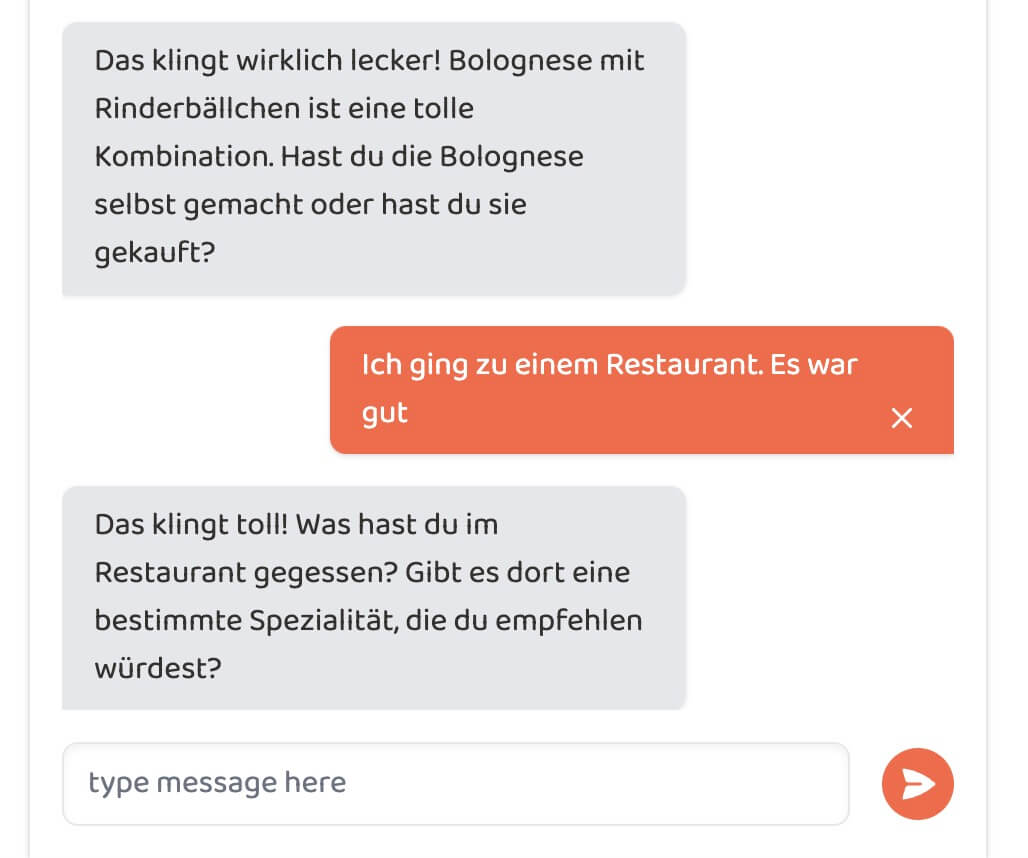
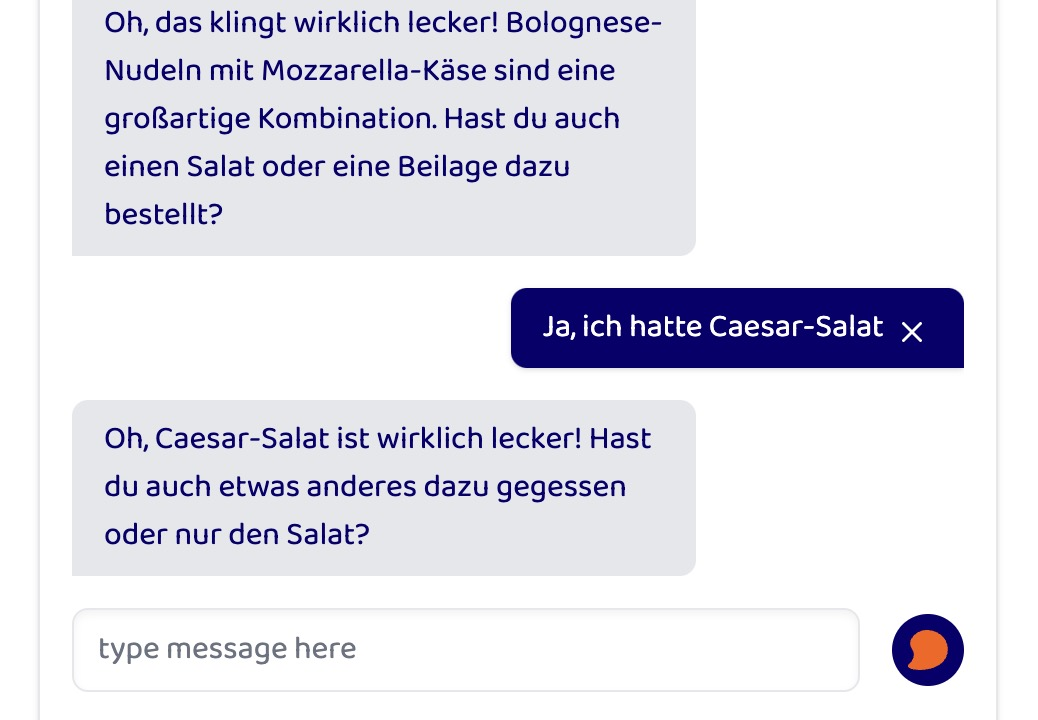
ui changes

Changed region(s): [[0.0623, 0.0, 0.9339, 0.825], [0.0623, 0.8861, 0.3424, 0.9472], [0.8405, 0.8556, 0.9339, 0.9778]]

diff --git a/src/components/home-features-section.tsx b/src/components/home-features-section.tsx
@@ -2,9 +2,9 @@ import Image from "next/image";
 
 export default function HomeFeaturesSection() {
     return (
-        <section className="flex flex-col gap-12 items-center pt-12 w-full min-h-screen bg-gradient-to-t to-white snap-start from-blaze-orange-200">
+        <section className="flex flex-col gap-12 items-center pt-12 w-full min-h-screen snap-start">
             <p className="text-5xl font-bold text-center">Features</p>
-            <div className="flex justify-between items-start w-1/2">
+            <div className="flex gap-4 items-start w-1/2">
                 <div className="w-1/3">
                     <p className="text-2xl font-bold">AI Chat Partner</p>
                     <p className="text-lg">
@@ -16,17 +16,17 @@ export default function HomeFeaturesSection() {
                 <Image
                     src="/chatpartner.jpg"
                     alt="ai chat partner"
-                    width={300}
-                    height={300}
+                    width={450}
+                    height={450}
                     className="rounded-lg shadow"
                 />
             </div>
-            <div className="flex justify-between items-start w-1/2">
+            <div className="flex gap-4 items-start w-1/2">
                 <Image
                     src="/feedback.jpg"
                     alt="ai chat partner"
-                    width={300}
-                    height={300}
+                    width={450}
+                    height={450}
                     className="rounded-lg shadow"
                 />
                 <div className="w-1/3">
@@ -38,7 +38,7 @@ export default function HomeFeaturesSection() {
                     </p>
                 </div>
             </div>
-            <div className="flex justify-between items-start w-1/2">
+            <div className="flex gap-4 items-start w-1/2">
                 <div className="w-1/3">
                     <p className="text-2xl font-bold">Track Your Learning</p>
                     <p className="text-lg">
@@ -51,8 +51,8 @@ export default function HomeFeaturesSection() {
                 <Image
                     src="/studyplan.jpg"
                     alt="ai chat partner"
-                    width={300}
-                    height={300}
+                    width={450}
+                    height={450}
                     className="rounded-lg shadow"
                 />
             </div>

diff --git a/src/components/home-pricing-section.tsx b/src/components/home-pricing-section.tsx
@@ -1,7 +1,42 @@
 export default function HomePricingSection() {
     return (
-        <section className="flex flex-col gap-12 items-center pt-12 w-full min-h-screen bg-gradient-to-b to-white snap-start from-blaze-orange-200">
+        <section className="flex flex-col gap-12 items-center pt-12 w-full min-h-screen snap-start">
             <p className="text-5xl font-bold text-center">Pricing</p>
+            <div className="flex gap-24 items-center w-2/3">
+                <div className="overflow-hidden w-full rounded-2xl shadow bg-rosetta-orange">
+                    <div className="flex flex-col items-center p-8">
+                        <p className="text-5xl font-bold text-white">
+                            Free Plan
+                        </p>
+                        <p className="text-7xl font-extrabold">$0</p>
+                        <p className="text-3xl font-bold">Monthly</p>
+                    </div>
+                    <div className="p-8 bg-white">
+                        <p className="text-3xl">10 Messages Daily</p>
+                        <p className="text-3xl">Basic Topics</p>
+                        <p className="text-3xl">Basic Study Plan</p>
+                    </div>
+                </div>
+
+                <div className="overflow-hidden w-full rounded-2xl shadow bg-rosetta-navy">
+                    <div className="flex flex-col items-center p-8">
+                        <p className="text-5xl font-bold text-white">
+                            Paid Plan
+                        </p>
+                        <p className="text-7xl font-extrabold text-rosetta-orange">
+                            $30
+                        </p>
+                        <p className="text-3xl font-bold text-rosetta-orange">
+                            Monthly
+                        </p>
+                    </div>
+                    <div className="p-8 bg-white">
+                        <p className="text-3xl">Unlimited Messages Daily</p>
+                        <p className="text-3xl">Customised Topics</p>
+                        <p className="text-3xl">Advanced Study Plan</p>
+                    </div>
+                </div>
+            </div>
         </section>
     );
 }

diff --git a/src/components/home-hero-section.tsx b/src/components/home-hero-section.tsx
@@ -1,11 +1,18 @@
+import Image from "next/image";
 import Link from "next/link";
 
 export default function HomeHeroSection() {
     return (
-        <section className="flex flex-col gap-12 items-center pt-40 w-full h-screen bg-gradient-to-b to-white snap-start from-blaze-orange-200">
+        <section className="flex flex-col gap-12 items-center pt-36 w-full h-screen snap-start">
+            <Image
+                src="/rosettamascot.png"
+                alt="rosettamascot"
+                width={200}
+                height={200}
+            />
             <p className="text-5xl font-bold text-center">
                 Learning languages one{" "}
-                <span className="font-extrabold text-transparent bg-clip-text bg-gradient-to-tr from-rosetta-coral to-rosetta-orange">
+                <span className="font-extrabold text-rosetta-orange">
                     conversation
                 </span>{" "}
                 at a time.
@@ -13,13 +20,13 @@ export default function HomeHeroSection() {
             <div className="grid grid-cols-2 gap-12 justify-center">
                 <Link
                     href="/signin"
-                    className="py-4 px-8 text-xl font-bold text-center rounded-lg duration-150 ease-in-out hover:text-white text-rosetta-jet bg-rosetta-coral shadow-inset hover:shadow-inset2 hover:bg-rosetta-orange"
+                    className="py-4 px-8 text-xl font-bold text-center text-white rounded-lg duration-150 ease-in-out bg-rosetta-navy shadow-inset hover:shadow-inset2 hover:bg-rosetta-orange"
                 >
                     Sign In
                 </Link>
                 <Link
                     href="/signup"
-                    className="py-4 px-8 text-xl font-bold text-center rounded-lg duration-150 ease-in-out hover:text-white text-rosetta-jet bg-rosetta-coral shadow-inset hover:shadow-inset2 hover:bg-rosetta-orange"
+                    className="py-4 px-8 text-xl font-bold text-center text-white rounded-lg duration-150 ease-in-out bg-rosetta-navy shadow-inset hover:shadow-inset2 hover:bg-rosetta-orange"
                 >
                     Sign Up
                 </Link>

diff --git a/src/components/lobby-user-profile-section.tsx b/src/components/lobby-user-profile-section.tsx
@@ -26,31 +26,30 @@ export default function LobbyUserProfileSection() {
 
     return (
         <div className="flex flex-col gap-8 w-full h-full">
-            <div className="bg-gray-500 rounded-full w-[150px] h-[150px]"></div>
             <div className="flex flex-col gap-2">
                 <div>
-                    <p className="font-medium">Name</p>
+                    <p className="font-bold">Name</p>
                     <p>{user?.displayName}</p>
                 </div>
                 <div>
-                    <p className="font-medium">Email</p>
+                    <p className="font-bold">Email</p>
                     <p>{user?.email}</p>
                 </div>
                 <div>
-                    <p className="font-medium">Native Language</p>
+                    <p className="font-bold">Native Language</p>
                     <p className="capitalize">{userDetails?.nativeLanguage}</p>
                 </div>
             </div>
             <div className="flex flex-col gap-2">
                 <Link
                     href="/changepassword"
-                    className="py-2 px-4 w-max font-medium bg-gray-200 rounded-lg duration-150 ease-in-out hover:text-white shadow-inset hover:bg-rosetta-orange hover:shadow-inset2"
+                    className="py-2 px-4 w-max font-bold bg-gray-200 rounded-lg duration-150 ease-in-out hover:text-white shadow-inset hover:bg-rosetta-orange hover:shadow-inset2"
                 >
                     Change Password
                 </Link>
                 <Link
                     href="/onboarding?editProfile=1"
-                    className="py-2 px-4 w-max font-medium bg-gray-200 rounded-lg duration-150 ease-in-out hover:text-white shadow-inset hover:bg-rosetta-orange hover:shadow-inset2"
+                    className="py-2 px-4 w-max font-bold bg-gray-200 rounded-lg duration-150 ease-in-out hover:text-white shadow-inset hover:bg-rosetta-orange hover:shadow-inset2"
                 >
                     Edit Profile
                 </Link>

diff --git a/src/components/chat-left-side-bar.tsx b/src/components/chat-left-side-bar.tsx
@@ -42,7 +42,7 @@ export default function ChatLeftSideBar() {
     return (
         <div className="flex flex-col gap-8 items-center pt-12 w-1/3 h-full">
             <div className="flex flex-col gap-4 w-3/4">
-                <h1 className="py-2 px-4 text-xl font-bold rounded-lg bg-rosetta-coral">
+                <h1 className="py-2 px-4 text-xl font-bold text-white rounded-lg bg-rosetta-orange">
                     Current Chat
                 </h1>
                 <div className="flex justify-between items-center w-full">
@@ -63,12 +63,10 @@ export default function ChatLeftSideBar() {
             </div>
 
             <div className="flex flex-col gap-2 w-3/4">
-                <h1 className="py-2 px-4 text-xl font-bold bg-gray-200 rounded-lg">
-                    All Chats
-                </h1>
+                <h1 className="py-2 px-4 text-xl font-bold">All Chats</h1>
                 {displayedChats.map((chat, idx) => (
                     <Link key={idx} href={`/chat?id=${chat.id}`}>
-                        <div className="py-2 px-4 w-full rounded-lg border-2 border-gray-200 shadow hover:border-rosetta-sienna">
+                        <div className="py-2 px-4 w-full bg-gray-200 rounded-lg duration-150 ease-in-out hover:text-white shadow-inset hover:shadow-inset2 hover:bg-rosetta-orange">
                             <p className="font-bold">{chat?.botName}</p>
                             <p className="capitalize">
                                 {chat?.language} ({chat?.proficiency}) |{" "}

diff --git a/src/components/chat-window.tsx b/src/components/chat-window.tsx
@@ -6,7 +6,7 @@ import { useRouter } from "next/router";
 import { FormEvent, useEffect, useRef, useState } from "react";
 import { useStore } from "@/stores/rosetta-store";
 import { getUser } from "@/lib/storage/user";
-import SendIcon from "./ui/send-icon";
+import RosettaCommaIcon from "./ui/rosetta-comma-icon";
 
 export default function ChatWindow() {
     const { loading, user } = useAuth();
@@ -135,7 +135,7 @@ export default function ChatWindow() {
                         evaluation={message.evaluation.content}
                     />
                 ))}
-                <p className="flex flex-col py-2 px-4 bg-gray-200 rounded-lg rounded-bl-none shadow max-w-[70%] self-start">
+                <p className="py-2 px-4 rounded-lg rounded-bl-none bg-gray-200 max-w-[70%]">
                     {greeting}
                 </p>
             </div>
@@ -154,9 +154,9 @@ export default function ChatWindow() {
                 <button
                     type="submit"
                     disabled={disabled}
-                    className="flex items-center p-2 text-white rounded-full bg-rosetta-sienna"
+                    className="flex items-center p-2 rounded-full duration-150 ease-in-out text-rosetta-orange bg-rosetta-navy"
                 >
-                    <SendIcon />
+                    <RosettaCommaIcon />
                 </button>
             </form>
         </div>

diff --git a/src/components/lobby-chat-card.tsx b/src/components/lobby-chat-card.tsx
@@ -1,19 +1,23 @@
 import { Chat } from "@/lib/storage/models";
 import Link from "next/link";
 
-export default function LobbyChatCard({ chat }: { chat: Chat }) {
+export default function LobbyChatCard({
+    chat,
+    url,
+}: {
+    chat: Chat;
+    url: string;
+}) {
     return (
-        <Link href={`/chat?id=${chat.id}`}>
-            <div className="flex flex-col gap-2 p-4 w-max rounded-lg border-2 border-gray-200 shadow duration-150 ease-in-out h-max hover:border-rosetta-orange">
-                <div className="bg-gray-500 rounded-lg w-[200px] h-[200px]"></div>
+        <Link href={`/${url}?id=${chat.id}`}>
+            <div className="flex gap-2 p-4 w-max bg-gray-200 rounded-lg duration-150 ease-in-out hover:text-white shadow-inset h-max hover:shadow-inset2 hover:bg-rosetta-orange">
                 <div>
                     <p className="text-lg font-bold capitalize">
                         {chat.botName}
                     </p>
                     <p className="capitalize">
-                        {chat.language} ({chat.proficiency})
+                        {chat.language} ({chat.proficiency}) | {chat.topic}
                     </p>
-                    <p className="capitalize">{chat.topic}</p>
                 </div>
             </div>
         </Link>

diff --git a/src/components/lobby-history-section.tsx b/src/components/lobby-history-section.tsx
@@ -1,8 +1,8 @@
-import LobbyHistoryCard from "@/components/lobby-history-card";
 import { useAuth } from "@/lib/auth/context";
 import { useEffect, useState } from "react";
 import { Chat } from "@/lib/storage/models";
 import { getReadOnlyChatsByUser } from "@/lib/storage/chat";
+import LobbyChatCard from "@/components/lobby-chat-card";
 
 export default function LobbyHistorySection() {
     const { loading, user } = useAuth();
@@ -28,11 +28,19 @@ export default function LobbyHistorySection() {
 
     return (
         <div className="flex flex-col gap-4 w-full h-full">
-            <div className="flex flex-wrap gap-4 w-full h-full">
-                {chats?.map((chat) => (
-                    <LobbyHistoryCard chat={chat} key={chat.id} />
-                ))}
-            </div>
+            {chats?.length !== 0 ? (
+                <div className="flex flex-wrap gap-4 w-full h-full">
+                    {chats?.map((chat) => (
+                        <LobbyChatCard
+                            chat={chat}
+                            url="history"
+                            key={chat.id}
+                        />
+                    ))}
+                </div>
+            ) : (
+                <p>No history</p>
+            )}
         </div>
     );
 }

diff --git a/src/pages/welcome.tsx b/src/pages/welcome.tsx
@@ -2,17 +2,17 @@ import Link from "next/link";
 
 export default function WelcomePage() {
     return (
-        <div className="flex flex-col gap-12 items-center pt-24 w-full h-full">
+        <div className="flex flex-col gap-12 items-center pt-24 w-full h-full bg-gradient-to-t from-blaze-orange-200">
             <p className="text-7xl font-bold">
                 Welcome to{" "}
-                <span className="font-extrabold text-transparent bg-clip-text bg-gradient-to-tr from-rosetta-coral to-rosetta-orange">
+                <span className="font-extrabold text-rosetta-orange">
                     Rosetta
                 </span>
                 !
             </p>
             <Link
                 href="/lobby?section=chats"
-                className="py-4 px-8 text-xl font-bold text-center rounded-lg duration-150 ease-in-out hover:text-white text-rosetta-jet bg-rosetta-coral shadow-inset hover:shadow-inset2 hover:bg-rosetta-orange"
+                className="py-4 px-8 text-xl font-bold text-center text-white rounded-lg duration-150 ease-in-out bg-rosetta-navy shadow-inset hover:shadow-inset2 hover:bg-rosetta-orange"
             >
                 Go To Lobby
             </Link>

diff --git a/src/components/history-window.tsx b/src/components/history-window.tsx
@@ -136,7 +136,7 @@ export default function HistoryWindow() {
                         evaluation={message.evaluation.content}
                     />
                 ))}
-                <p className="flex flex-col py-2 px-4 bg-gray-200 rounded-lg rounded-bl-none shadow max-w-[70%] self-start">
+                <p className="py-2 px-4 rounded-lg rounded-bl-none bg-gray-200 max-w-[70%]">
                     {greeting}
                 </p>
             </div>
@@ -144,7 +144,7 @@ export default function HistoryWindow() {
                 type="submit"
                 disabled={disabled}
                 onClick={handleCreateStudyPlan}
-                className="py-4 px-8 w-full text-xl font-bold rounded-lg duration-150 ease-in-out hover:text-white shadow-inset bg-rosetta-coral hover:shadow-inset2 hover:bg-rosetta-orange"
+                className="py-4 px-8 w-full text-xl font-bold bg-gray-200 rounded-lg duration-150 ease-in-out hover:text-white shadow-inset hover:shadow-inset2 hover:bg-rosetta-orange"
             >
                 Create Study Plan
             </button>

diff --git a/src/components/chat-bubbles.tsx b/src/components/chat-bubbles.tsx
@@ -19,11 +19,11 @@ export default function ChatBubbles({
 }) {
     return (
         <>
-            <p className="py-2 px-4 bg-gray-200 rounded-lg rounded-bl-none shadow max-w-[70%]">
+            <p className="py-2 px-4 rounded-lg rounded-bl-none bg-gray-200 max-w-[70%]">
                 {botBody}
             </p>
             <HoverCard>
-                <HoverCardTrigger className="flex gap-1 py-2 px-4 bg-rosetta-sienna text-white rounded-lg rounded-br-none shadow max-w-[70%] self-end">
+                <HoverCardTrigger className="flex gap-1 py-2 px-4 bg-rosetta-navy text-white rounded-lg rounded-br-none shadow max-w-[70%] self-end">
                     <p>{userBody}</p>
                     <div className="self-end">
                         {correct ? <TickIcon /> : <CrossIcon />}

diff --git a/src/components/lobby-chats-section.tsx b/src/components/lobby-chats-section.tsx
@@ -33,11 +33,15 @@ export default function LobbyChatsSection() {
             >
                 New Chat
             </Link>
-            <div className="flex flex-wrap gap-4 w-full h-full">
-                {chats?.map((chat) => (
-                    <LobbyChatCard chat={chat} key={chat.id} />
-                ))}
-            </div>
+            {chats?.length !== 0 ? (
+                <div className="flex flex-wrap gap-4 w-full h-full">
+                    {chats?.map((chat) => (
+                        <LobbyChatCard chat={chat} url="chat" key={chat.id} />
+                    ))}
+                </div>
+            ) : (
+                <p>No chats</p>
+            )}
         </div>
     );
 }
